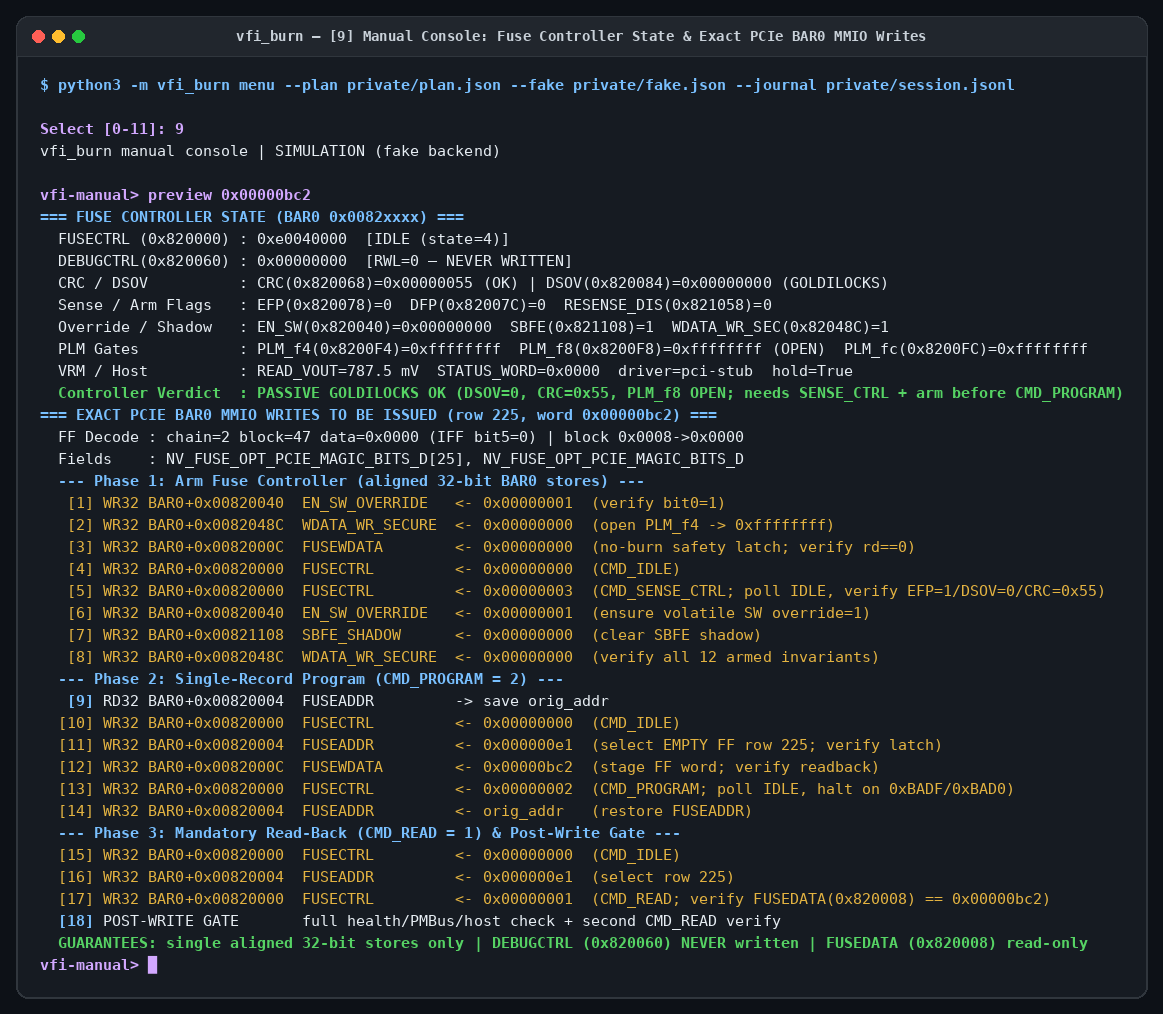
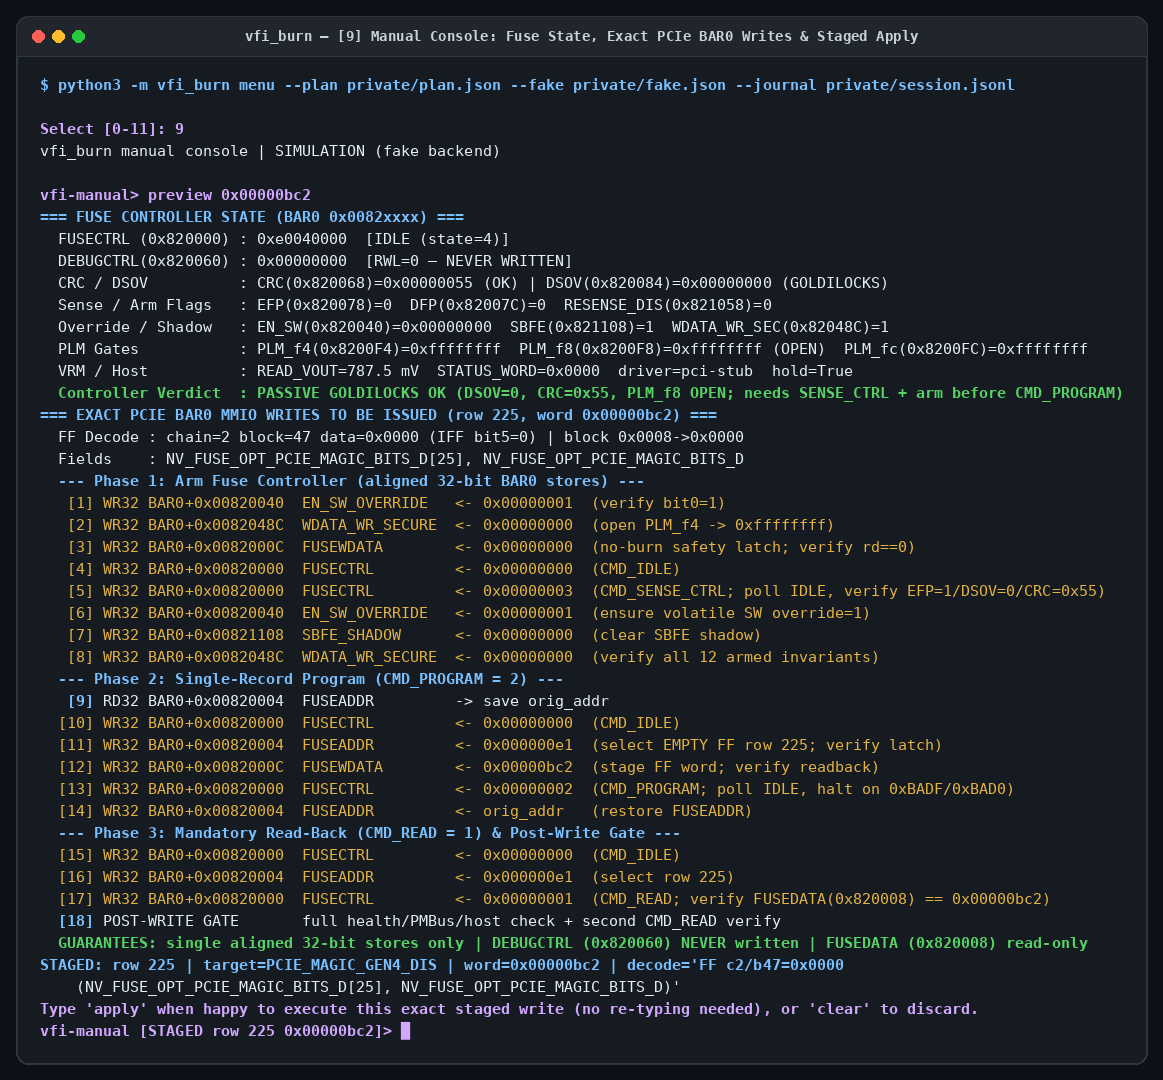
Add typo-proof preview -> apply/clear staged workflow in ManualConsole + updated screenshot

Changed region(s): [[0.031, 0.0306, 0.9596, 0.9783], [0.8358, 0.5197, 0.9286, 0.5503]]

diff --git a/vfi_burn/console.py b/vfi_burn/console.py
@@ -600,6 +600,7 @@ class ManualConsole:
         self.show = show
         self.baseline_rows: dict[int, int] = {}
         self.baseline_fields: dict[str, int] = {}
+        self._staged: dict | None = None
 
     def _confirm(self, prompt: str, token: str) -> bool:
         try:
@@ -624,7 +625,7 @@ class ManualConsole:
             return "SIMULATION (fake backend)"
         if self.execute:
             return "LIVE EXECUTE (verified writer enabled)"
-        return "LIVE READ-ONLY (writes disabled; 'write' runs dry-run only)"
+        return "LIVE READ-ONLY (writes disabled; 'apply'/'write' runs dry-run only)"
 
     def run(self) -> int:
         check_host_readonly_safe(self.reader.host())
@@ -638,15 +639,20 @@ class ManualConsole:
         self.show(f"vfi_burn manual console | {self._mode_label()}")
         if self.overrides.active_names():
             self.show("Active overrides: " + ", ".join(self.overrides.active_names()))
-        self.show("Type 'help' for commands, 'quit' to exit.")
+        self.show("Type 'help' for commands, 'preview <word>' then 'apply' to burn without re-typing, 'quit' to exit.")
         for line in format_status_report(
             self.plan, self.reader, allow_vout_override=self.overrides.vout_range
         ):
             self.show(line)
 
         while True:
+            prompt = (
+                f"vfi-manual [STAGED row {self._staged['row']} {hex32(self._staged['word'])}]> "
+                if self._staged is not None
+                else "vfi-manual> "
+            )
             try:
-                raw = self.input_fn("vfi-manual> ")
+                raw = self.input_fn(prompt)
             except EOFError:
                 self.show("")
                 break
@@ -695,6 +701,15 @@ class ManualConsole:
         if cmd == "preview":
             self._cmd_preview(args)
             return True
+        if cmd == "apply":
+            self._cmd_apply(args)
+            return True
+        if cmd in ("clear", "unstage"):
+            self._cmd_clear()
+            return True
+        if cmd == "staged":
+            self._cmd_staged()
+            return True
         if cmd == "sense":
             self._cmd_sense()
             return True
@@ -730,7 +745,10 @@ class ManualConsole:
             "Commands:\n"
             "  status                         Show full health, host, die ID, and mask status\n"
             "  state                          Show detailed GA100 fuse controller registers & armed state\n"
-            "  preview <word> [row]           Show fuse state + exact PCIe BAR0 MMIO writes (NO writes)\n"
+            "  preview <word> [row]           Inspect fuse state + exact PCIe BAR0 MMIO writes & stage\n"
+            "  preview <target> <word> <desc> Inspect exact PCIe BAR0 writes & stage with custom label\n"
+            "  apply                          Execute the exact staged preview (no re-typing; gated)\n"
+            "  staged / clear                 Show or discard the currently staged write\n"
             "  sense                          Run opt-in active_sense_readonly() and diff health\n"
             "  scan                           Double-scan FPF window and prove next free row\n"
             "  row <index>                    Read one FPF row (with poison & diff check)\n"
@@ -739,7 +757,7 @@ class ManualConsole:
             "  field <name>                   Read named decoded field (e.g. GPC_DISABLE, LnkCap2)\n"
             "  diff                           Diff current FPF rows & fields vs console start\n"
             "  overrides                      Show active overrides & unbreakable invariants\n"
-            "  write <target> <word> <decode> Preview exact PCIe BAR0 writes + write ONE gated record\n"
+            "  write <target> <word> <decode> One-step preview + gated write (prefer preview -> apply)\n"
             "  quit                           Exit manual console"
         )
 
@@ -778,13 +796,124 @@ class ManualConsole:
             self.show(out)
         return row
 
+    def _auto_label_for_word(self, word: int) -> tuple[str, str]:
+        try:
+            ff = decode_ff(word)
+            analysis = analyze_ff_block(ff.chain, ff.block, ff.data, None)
+            fields = analysis["fields"]
+            if fields:
+                # Prefer a floorsweep field name if any overlap (ensures defect-mask guard triggers).
+                primary = next((f for f in fields if f.category == "floorsweep"), fields[0])
+                names = ", ".join(f.name for f in fields)
+                return primary.key.upper(), f"FF c{ff.chain}/b{ff.block}=0x{ff.data:04x} ({names})"
+            return f"FF_C{ff.chain}_B{ff.block}", f"FF c{ff.chain}/b{ff.block}=0x{ff.data:04x} (unknown block)"
+        except BurnError as exc:
+            return "INVALID_FF_WORD", f"invalid FF word ({exc})"
+
     def _cmd_preview(self, args: list[str]) -> None:
-        if not (1 <= len(args) <= 2):
-            raise BurnError("usage: preview <32-bit-hex-word> [row]")
-        word = u32(args[0], "word")
-        row = int(args[1], 0) if len(args) == 2 else None
-        resolved_row = self._show_write_preview(word, row=row)
-        self.journal.append(event="manual_preview_writes", row=resolved_row, word=hex32(word))
+        if not args:
+            raise BurnError("usage: preview <32-bit-hex-word> [row]  OR  preview <target> <word> <decode>")
+        explicit_row: int | None = None
+        if len(args) >= 3:
+            target = args[0]
+            word = u32(args[1], "word")
+            decode = " ".join(args[2:]).strip()
+            if not decode:
+                raise BurnError("preview decode description must be non-empty")
+        else:
+            word = u32(args[0], "word")
+            explicit_row = int(args[1], 0) if len(args) == 2 else None
+            target, decode = self._auto_label_for_word(word)
+
+        resolved_row = self._show_write_preview(word, row=explicit_row)
+        staged_ok = True
+        if explicit_row is not None:
+            try:
+                proved_row, _ = scan_slots(self.plan, self.reader, override_slot=self.overrides.slot)
+                if explicit_row != proved_row:
+                    staged_ok = False
+                    self.show(
+                        f"NOTE: previewed explicit row {explicit_row}, but next proved free row is {proved_row} "
+                        "(not staged — omit [row] or set --override-slot to stage)."
+                    )
+            except BurnError:
+                staged_ok = False
+
+        if staged_ok:
+            self._staged = {
+                "row": resolved_row,
+                "target": target,
+                "word": word,
+                "decode": decode,
+            }
+            self.show(
+                f"STAGED: row {resolved_row} | target={target} | word={hex32(word)} | decode={decode!r}"
+            )
+            self.show(
+                "Type 'apply' when happy to execute this exact staged write (no re-typing needed), "
+                "or 'clear' to discard."
+            )
+        self.journal.append(
+            event="manual_preview_writes",
+            row=resolved_row,
+            target=target,
+            word=hex32(word),
+            decode=decode,
+            staged=staged_ok,
+        )
+
+    def _cmd_staged(self) -> None:
+        if self._staged is None:
+            self.show("Nothing staged. Use 'preview <word>' or 'preview <target> <word> <decode>' to stage a write.")
+            return
+        s = self._staged
+        self.show(
+            f"STAGED: row {s['row']} | target={s['target']} | word={hex32(s['word'])} | decode={s['decode']!r}"
+        )
+
+    def _cmd_clear(self) -> None:
+        if self._staged is None:
+            self.show("Nothing was staged.")
+            return
+        old = self._staged
+        self._staged = None
+        self.journal.append(
+            event="manual_staged_cleared",
+            row=old["row"],
+            target=old["target"],
+            word=hex32(old["word"]),
+        )
+        self.show(f"Cleared staged write (row {old['row']} {hex32(old['word'])}).")
+
+    def _cmd_apply(self, args: list[str]) -> None:
+        if args:
+            raise BurnError(
+                "usage: apply (takes NO arguments — executes the exact staged preview to prevent typos; "
+                "use 'preview ...' to change what is staged)"
+            )
+        if self._staged is None:
+            raise BurnError(
+                "nothing staged — run 'preview <word>' or 'preview <target> <word> <decode>' first"
+            )
+        staged = self._staged
+        self._staged = None  # consume immediately so a stale staged write can never apply twice
+
+        cur_row, _ = scan_slots(self.plan, self.reader, override_slot=self.overrides.slot)
+        if cur_row != staged["row"]:
+            raise BurnError(
+                f"next proved free row changed since preview (staged row {staged['row']}, now row {cur_row}); "
+                "re-run 'preview' before applying"
+            )
+        self.show(
+            f"APPLYING STAGED WRITE: row {staged['row']} | target={staged['target']} | "
+            f"word={hex32(staged['word'])} | decode={staged['decode']!r}"
+        )
+        self._execute_manual_record(
+            staged["target"],
+            staged["word"],
+            staged["decode"],
+            show_preview=False,
+        )
 
     def _cmd_sense(self) -> None:
         before = self.reader.health()
@@ -922,14 +1051,23 @@ class ManualConsole:
             "genuine defect bits."
         )
 
-    def _is_floorsweep_target(self, target: str) -> bool:
+    def _is_floorsweep_target(self, target: str, word: int | None = None) -> bool:
         upper = target.strip().upper()
         known = {k.upper() for k in self.plan.defect_masks} | {
             k.upper() for k in self.plan.expected_masks
         }
         if upper in known:
             return True
-        return any(tok in upper for tok in ("GPC", "TPC", "SM_", "FBP", "DISABLE", "RECONFIG"))
+        if any(tok in upper for tok in ("GPC", "TPC", "SM_", "FBP", "DISABLE", "RECONFIG")):
+            return True
+        if word is not None:
+            try:
+                ff = decode_ff(word)
+                if any(f.category == "floorsweep" for f in analyze_ff_block(ff.chain, ff.block, ff.data, None)["fields"]):
+                    return True
+            except BurnError:
+                pass
+        return False
 
     def _cmd_write(self, args: list[str]) -> None:
         if len(args) < 3:
@@ -939,8 +1077,17 @@ class ManualConsole:
         decode = " ".join(args[2:]).strip()
         if not decode:
             raise BurnError("manual write requires a non-empty decode description")
+        self._execute_manual_record(target, word, decode, show_preview=True)
 
-        if self._is_floorsweep_target(target):
+    def _execute_manual_record(
+        self,
+        target: str,
+        word: int,
+        decode: str,
+        *,
+        show_preview: bool,
+    ) -> None:
+        if self._is_floorsweep_target(target, word):
             if not self.overrides.undetermined_ceiling:
                 self.journal.append(
                     event="manual_console_write_refused",
@@ -995,10 +1142,11 @@ class ManualConsole:
         if dry_run:
             self.show("NOTE: console is READ-ONLY — running write as DRY-RUN preview only.")
 
-        try:
-            self._show_write_preview(word)
-        except BurnError:
-            pass  # let process_records surface the exact preflight/slot-proof error & journal it
+        if show_preview:
+            try:
+                self._show_write_preview(word)
+            except BurnError:
+                pass  # let process_records surface the exact preflight/slot-proof error & journal it
 
         self.journal.append(
             event="manual_console_write_request",

diff --git a/tests/test_cli_console.py b/tests/test_cli_console.py
@@ -389,6 +389,53 @@ class TestCLIAndConsole(unittest.TestCase):
         self.assertIn("manual_fuse_state", events)
         self.assertIn("manual_preview_writes", events)
 
+    def test_manual_console_preview_then_apply_workflow(self):
+        from vfi_burn.ffrecord import encode_ff
+
+        plan = Plan.load(self.plan_path)
+        w_pcie = encode_ff(2, 47, 0x0000)
+        w_gpc = encode_ff(1, 8, 0x0420)  # floorsweep GPC word
+        ctl = FakeController(
+            fields={"GPC_DISABLE": 0x85},
+            rows={222: 0xABCD00DE, 223: 0x13572468, 224: 0, 225: 0, 226: 0, 227: 0},
+        )
+        lines: list[str] = []
+        cmds = iter([
+            "apply",                                                # nothing staged -> refused
+            f"preview 0x{w_pcie:08x}",                              # stage auto-labeled PCIe word
+            "staged",
+            "clear",                                                # discard staged write
+            "apply",                                                # nothing staged -> refused
+            f"preview PCIE_GEN4 0x{w_pcie:08x} Clear Gen4 disable", # stage with explicit label
+            "apply 0xdeadbeef",                                     # extra arg -> refused (keeps stage!)
+            "apply",                                                # apply exact staged preview
+            "OVERRIDE NO TEST RECEIPT",                             # confirm no_test_receipt override
+            "YES",                                                  # confirm burn row 224
+            "apply",                                                # consumed -> refused (no double-burn!)
+            f"preview 0x{w_gpc:08x}",                               # floorsweep word
+            "apply",                                                # refused by floorsweep defect-mask guard!
+            "quit",
+        ])
+        with Journal(self.journal_path) as j:
+            rc = ManualConsole(
+                plan,
+                ctl,
+                ctl,
+                j,
+                overrides=Overrides(no_test_receipt=True),
+                input_fn=lambda prompt="": next(cmds),
+                show=lines.append,
+            ).run()
+        self.assertEqual(rc, 0)
+        out = "\n".join(lines)
+        self.assertIn("STAGED: row 224 | target=PCIE_GEN4", out)
+        self.assertIn("Cleared staged write", out)
+        self.assertIn("takes NO arguments", out)
+        self.assertIn("APPLYING STAGED WRITE: row 224", out)
+        self.assertIn("looks like a floorsweep/mask field", out)
+        self.assertEqual(ctl.fuse_row(224), w_pcie)
+        self.assertEqual(ctl.fuse_row(225), 0)  # floorsweep word was refused!
+
 
 if __name__ == "__main__":
     unittest.main()

diff --git a/README.md b/README.md
@@ -129,8 +129,8 @@ On live hardware (`--execute`), each record additionally requires typing the exa
 #### 5. `[8]` Granular Manual Overrides & `[10]` Offline 32-Bit FF Word Decoder
 ![vfi_burn Manual Overrides and FF Word Decoder](docs/screenshots/05-overrides-and-decode.png)
 
-#### 6. `[9]` Manual Low-Level Console — Fuse Controller State & Exact PCIe BAR0 MMIO Writes Preview
-Running `preview <word> [row]` (and automatically before any confirmation prompt in `write <target> <word> <decode>`) shows the complete decoded GA100 fuse controller register state (`FUSECTRL`, `DEBUGCTRL`, `CRC`, `DSOV`, `EFP/DFP/RESENSE_DIS`, `EN_SW/SBFE/WDATA_WR_SEC`, `PLM_f4/f8/fc`, VRM rail, host hold) followed by the exact ordered 32-bit aligned PCIe BAR0 MMIO writes that will be issued — before touching a single register.
+#### 6. `[9]` Manual Low-Level Console — Fuse Controller State, Exact PCIe BAR0 Writes & Staged `preview` → `apply`
+Run `preview <word>` (or `preview <target> <word> <description>`) to inspect the complete decoded GA100 fuse controller state (`FUSECTRL`, `DEBUGCTRL`, `CRC`, `DSOV`, `EFP/DFP/RESENSE_DIS`, `EN_SW/SBFE/WDATA_WR_SEC`, `PLM_f4/f8/fc`, VRM rail, host hold) and the exact ordered 32-bit aligned PCIe BAR0 MMIO writes — and **stage** that exact write so you simply type `apply` (no arguments, zero risk of re-typing typos; still gated by row/word confirmation & read-back) or `clear` to discard.
 ![vfi_burn Manual Console Fuse State and Exact PCIe BAR0 Writes](docs/screenshots/06-manual-console-writes.png)
 
 ---
@@ -138,7 +138,7 @@ Running `preview <word> [row]` (and automatically before any confirmation prompt
 ## Offline Verification & Simulation (Safe — No GPU Touched)
 
 ```bash
-# Run the full offline test suite (79 tests):
+# Run the full offline test suite (80 tests):
 python3 -m unittest discover -s tests -v
 
 # Set up a private mode-0700 working directory:
